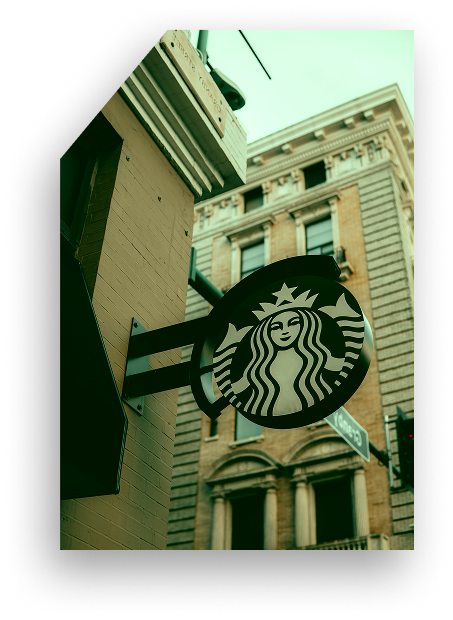
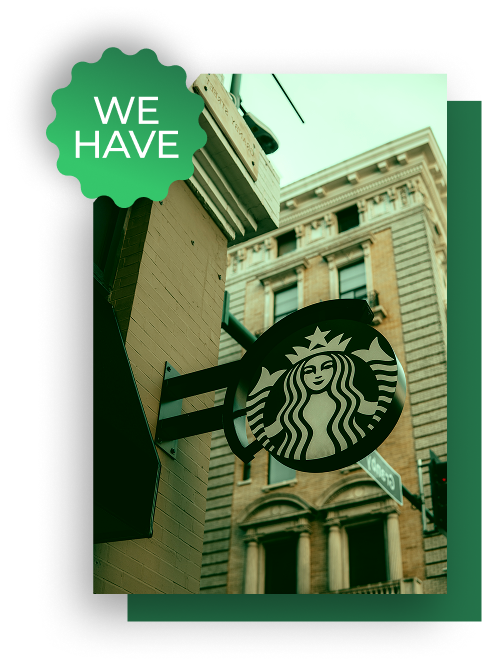
Work with stripes

diff --git a/src/components/ourContacts/ourContacts.scss b/src/components/ourContacts/ourContacts.scss
@@ -60,18 +60,49 @@
     right: 0;
   }
 
+  &__imgAll {
+    position: relative; // Створюємо систему координат для абсолютних елементів
+    display: flex;
+    justify-content: center; // Центруємо головне фото
+    align-items: center;
+    width: 100%;
+    min-height: 500px; // Задай висоту, щоб блок не схлопнувся
+  }
+
+  &__img {
+    position: relative; // Можна залишити relative, щоб воно тримало висоту блоку
+    z-index: 2; // <--- СТАВИМО НА ГОРУ
+
+    img {
+      display: block;
+      max-width: 100%;
+      height: auto;
+      border-radius: 20px; // Як на макеті
+    }
+  }
+
   &__Lines {
-    position: absolute;
+    position: absolute; // <--- ВИРИВАЄМО З ПОТОКУ, щоб поставити ПІД низ
+    top: 10%; // Центруємо відносно батька
+    left: 50%;
+    // Точне центрування
+    z-index: 1; // <--- СТАВИМО ПІД ФОТО
+
+    width: 100%;
     display: flex;
     flex-direction: column;
-    justify-content: center;
-    align-items: flex-end;
-    flex-shrink: 0;
-    gap: 26px;
-    width: 850px;
-    height: 600px;
-    overflow: hidden;
-    top: 200px;
-    right: -8px;
+
+    img {
+      width: 100%; // Або фіксована ширина, якщо треба
+      height: auto;
+
+      // Твій каскадний зсув
+      &:nth-child(2) {
+        transform: translateX(20px);
+      }
+      &:nth-child(3) {
+        transform: translateX(40px);
+      }
+    }
   }
 }
